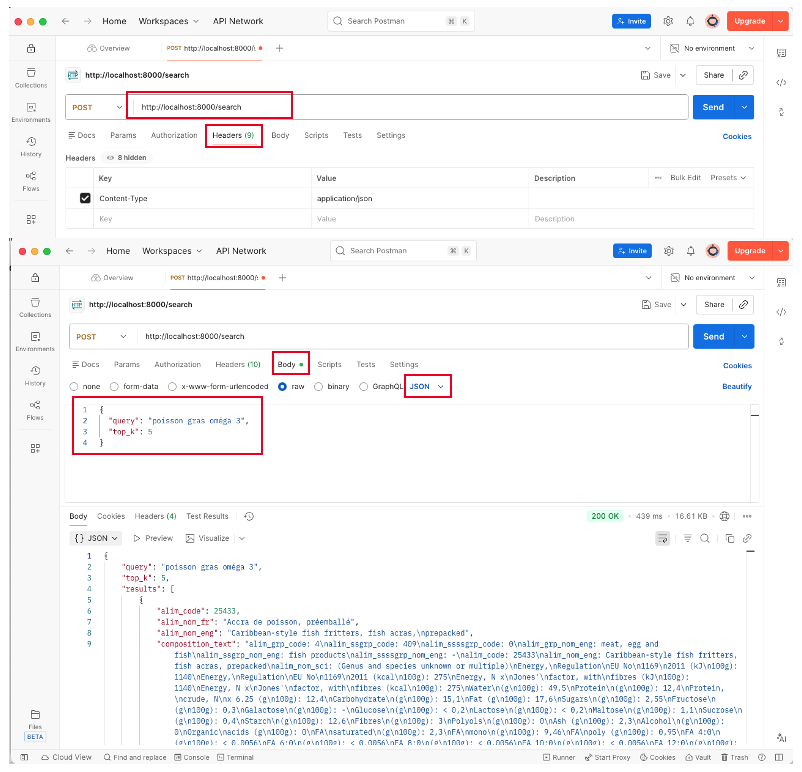
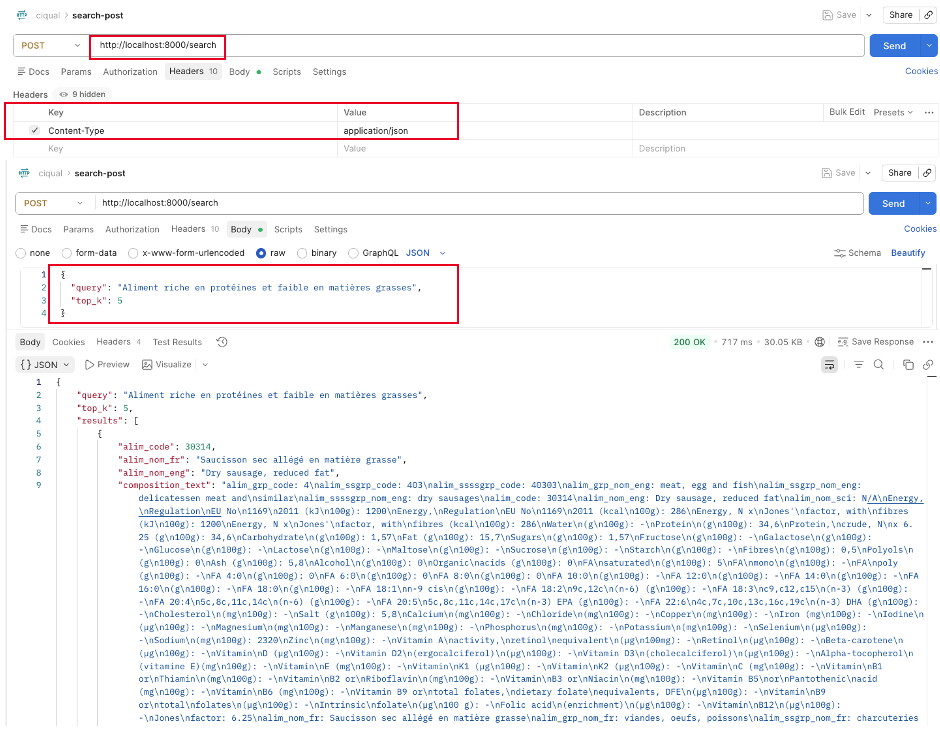
add a RAG package within food-nutrition-semantic-search-rag system

diff --git a/food-nutrition-semantic-search-rag/README.md b/food-nutrition-semantic-search-rag/README.md
@@ -32,7 +32,7 @@ Provides **semantic vector search** and a **RAG endpoint** ready for multimodal 
 - [Start ETL Pipeline API Server](#start-etl-pipeline-api-server)
   - [ETL API Endpoints](#etl-api-endpoints)
   - [Error Handling Examples](#error-handling-examples)
-  - [Food Search Engine (one‑time)](#food-search-engine-onetime)
+  - [Query Examples](#query-examples)
 - [Start RAG API Server](#start-rag-api-server)
   - [Prerequisites](#prerequisites)
   - [RAG API Endpoints](#rag-api-endpoints)
@@ -453,31 +453,11 @@ This will run server at http://localhost:8000 with interactive API documentation
 
 ***2. Search Endpoint – GET version***
 
-- `GET` -> `http://localhost:8000/search?query=poisson%20gras%20om%C3%A9ga%203&top_k=3`
+- `GET` -> `http://localhost:8000/search?query=Aliment riche en protéines et faible en matières grasses&top_k=5`
 - `URL`: `http://localhost:8000/search`
-- Parameters:
-  - `query`: `poisson gras oméga 3`
-  - `top_k`: `3
-- Expected response (status 200), [Figure 3](#fig3):
-
-```json
-
-{
-  "query": "poisson gras oméga 3",
-  "top_k": 3,
-  "results": [
-    {
-      "alim_code": 12345,
-      "alim_nom_fr": "Saumon",
-      "alim_nom_eng": "Salmon",
-      "composition_text": "...",
-      "metadata": { ... },
-      "similarity": 0.92
-    },
-    ...
-  ]
-}
-```
+- Parameters, [Figure 3](#fig3):
+  - `query`: `Aliment riche en protéines et faible en matières grasses`
+  - `top_k`: `5`
 
 <figure id="fig3">
   <img src="images/postman-query-get.png" alt="query-get" height="100%" weight="100%">
@@ -494,12 +474,12 @@ This will run server at http://localhost:8000 with interactive API documentation
 - Body:
   - Raw → JSON
 
-    ```json
-    {
-      "query": "poisson gras oméga 3",
-      "top_k": 3
-    }
-    ```
+```json
+{
+  "query": "Aliment riche en protéines et faible en matières grasses",
+  "top_k": 5
+}
+```
 
 <figure id="fig4">
   <img src="images/postman-query-post.png" alt="query-post" height="100%" weight="100%">
@@ -555,6 +535,17 @@ This will run server at http://localhost:8000 with interactive API documentation
     ]
 }
 ```
+
+### Query Examples
+
+- French:
+  - "Poisson gras oméga 3"
+  - "Aliment riche en protéines et faible en matières grasses"
+  - "Fruit avec beaucoup de vitamine
+- English:
+  - "High calcium food for bone health"
+  - "Low carbohydrate vegetables"
+  - "Foods with high iron content"
 
 ---
 
@@ -687,7 +678,7 @@ Adjust the image path and model name (should support vision, e.g., `llava`).
   * `model` (Text, optional)
   * `temperature` (Text, optional)
 
-**Expected response:** Same structure as the text query, but the answer may incorporate information from the image, [Figure 5](#fig5) and [Figure 6](#fig5).
+**Expected response:** Same structure as the text query, but the answer may incorporate information from the image, [Figure 5](#fig5) and [Figure 6](#fig6).
 
 ```json
 {
